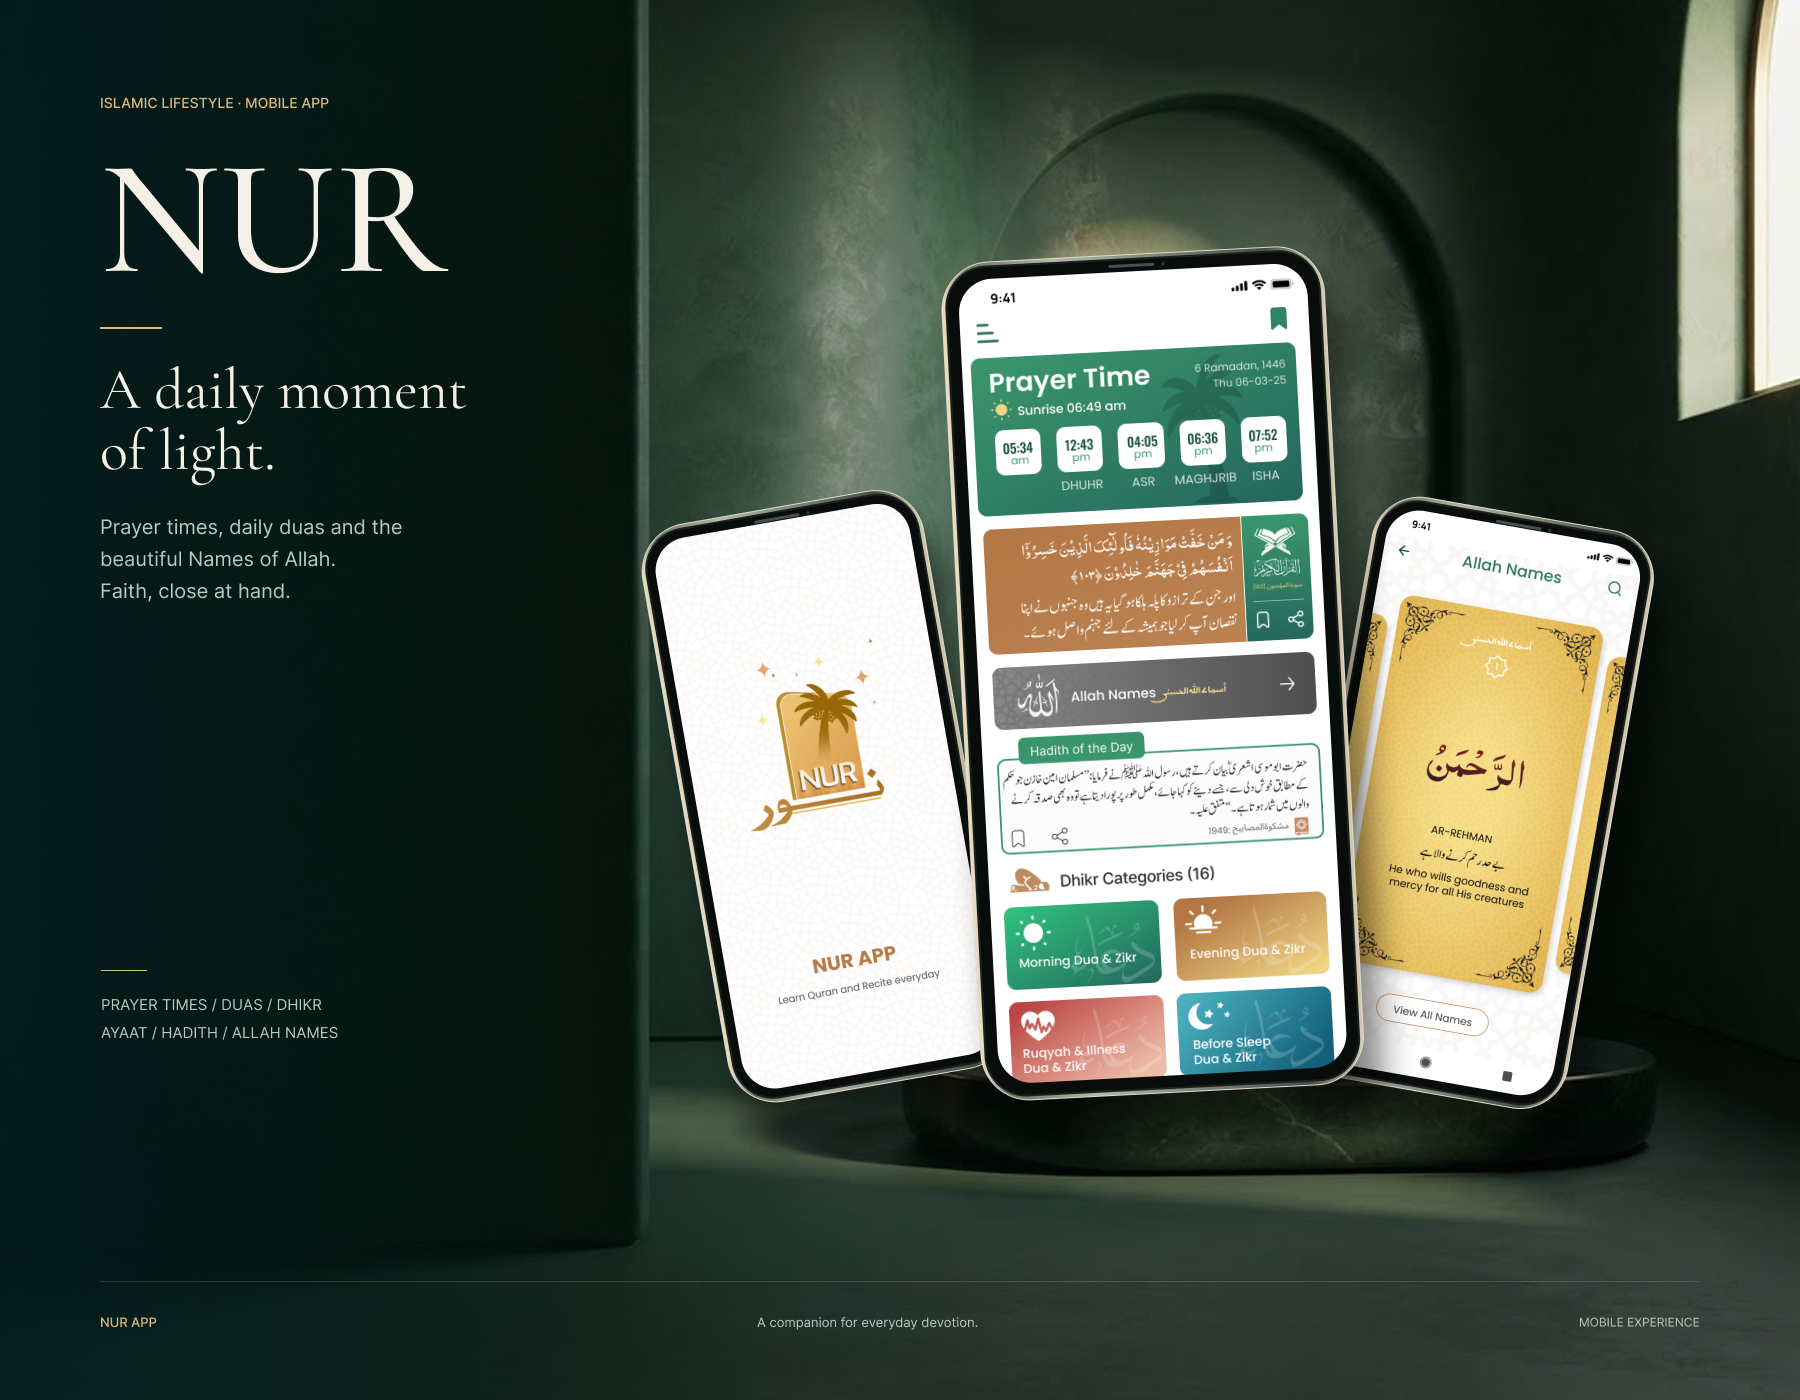
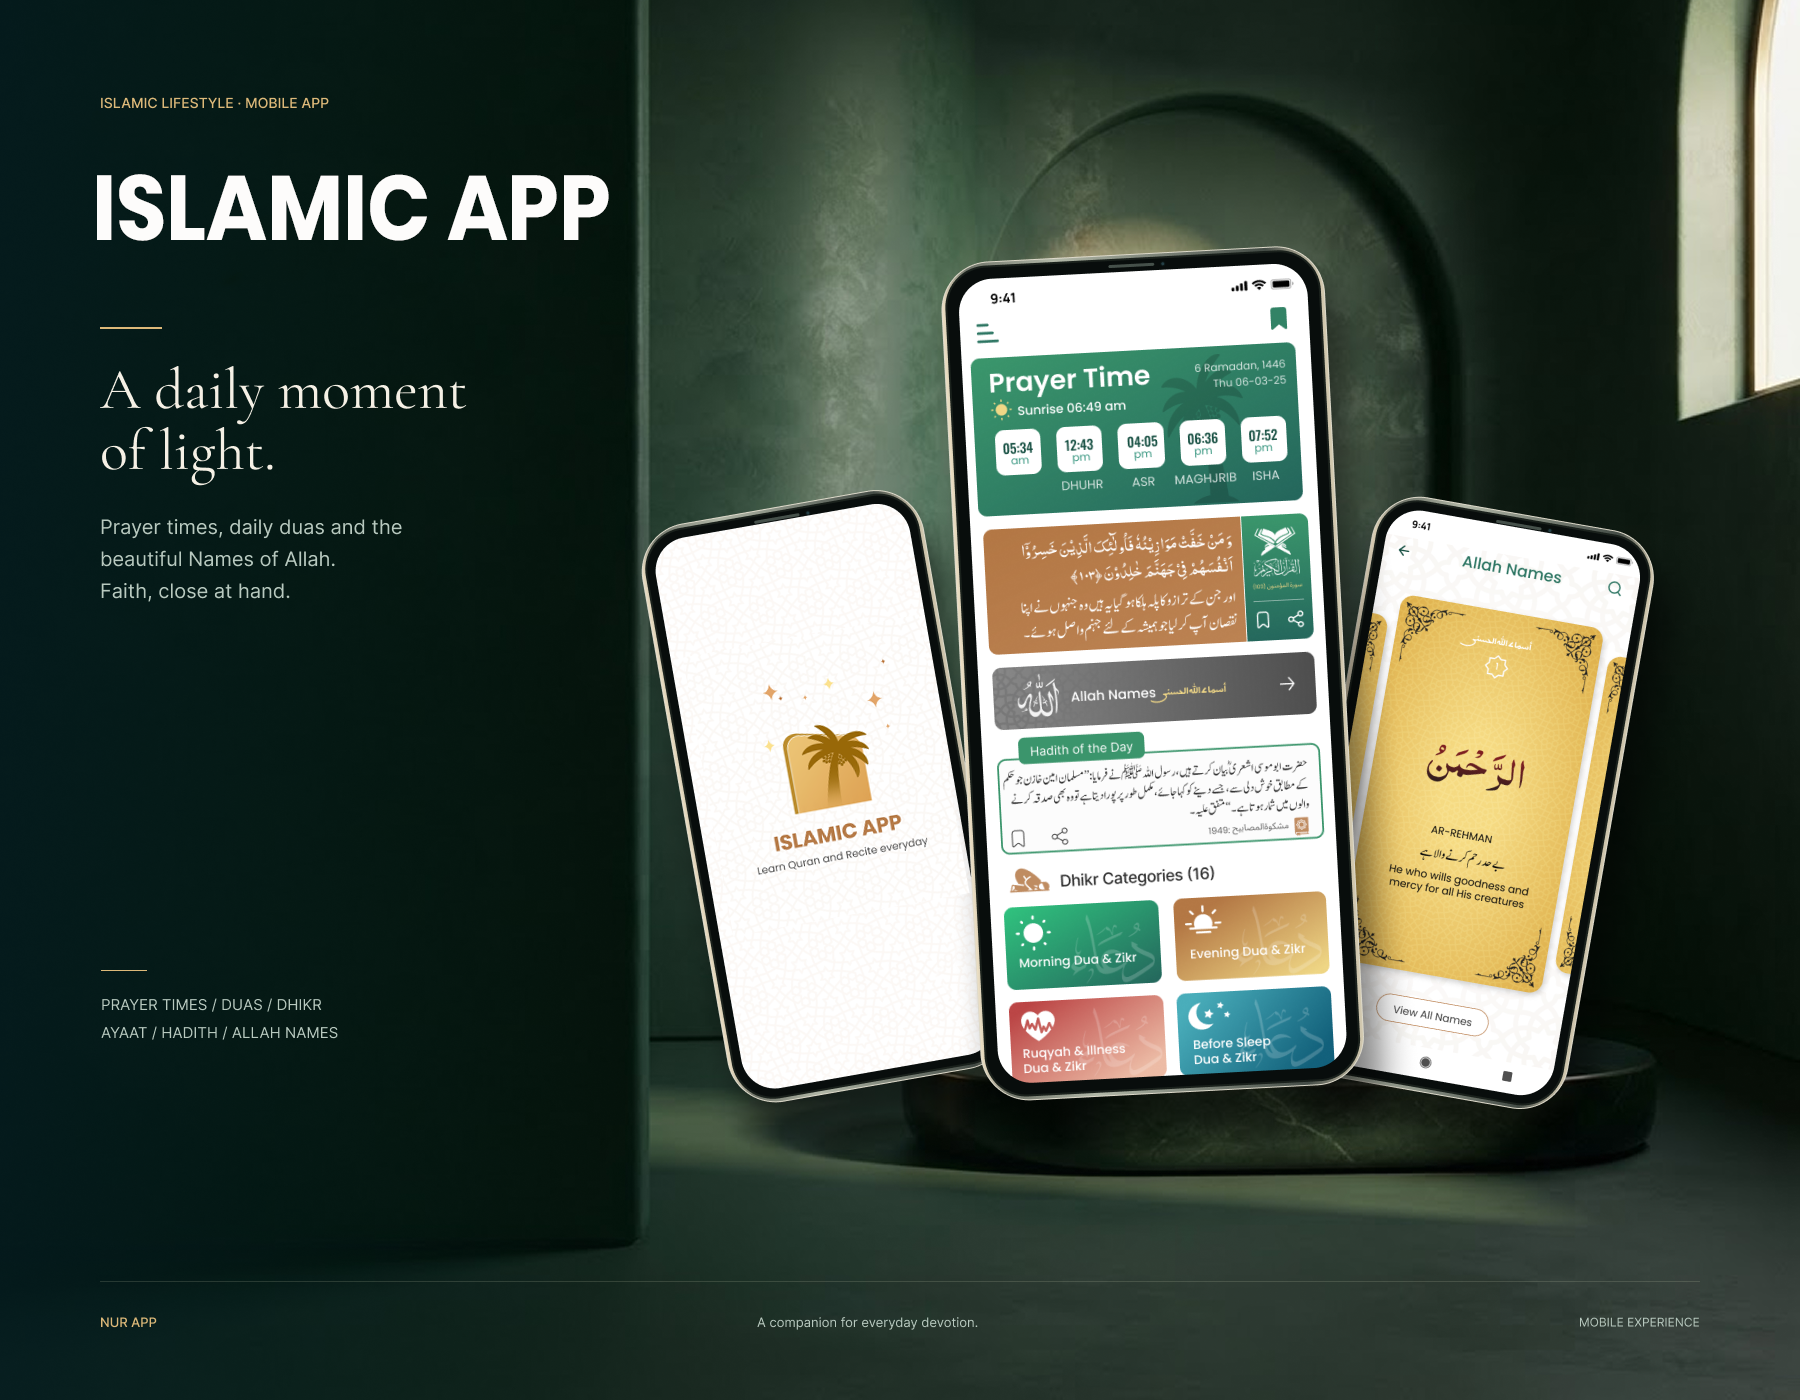
UI update
UI update

Changed region(s): [[0.0311, 0.1229, 0.3422, 0.215], [0.4044, 0.4914, 0.4978, 0.6143], [0.4356, 0.6757, 0.4978, 0.7064]]

diff --git a/data/projects.js b/data/projects.js
@@ -104,8 +104,8 @@ export const projects = [
     liveLink: 'https://dineup.wonderbyte.io/v2/'
   },
   {
-    slug: 'nur-islamic-life-app',
-    title: 'NUR: Islamic Life App',
+    slug: 'islamic-life-app',
+    title: 'Islamic Life App',
     subtitle: 'UI/UX Design for a Calm Daily Prayer Companion on iPhone',
     info: 'Designed the complete UI/UX in Figma for a mobile app that brings prayer times, an offline Qur\'an, daily adhkar, and private prayer circles into one calm, distraction-free experience.',
     description: [
@@ -124,15 +124,14 @@ export const projects = [
     skills: ['UI/UX Design', 'Figma', 'Wireframing', 'Mobile App Design', 'Design Systems', 'Prototyping', 'User Flows', 'Visual Design'],
     mainImage: '/assets/Images/project/nur-app/cover.png',
     images: [
-      '/assets/Images/project/nur-app/img2.webp',
-      '/assets/Images/project/nur-app/img1.png',
+      '/assets/Images/project/nur-app/img3.jpg',
       '/assets/Images/project/nur-app/img2.png',
+      '/assets/Images/project/nur-app/img1.png',
 
 
     ],
     status: 'Available for Purchase',
     forSale: true,
-    liveLink: 'https://nur.prismcodelabs.com/'
   },
   {
     slug: 'nitrox-gaming-community',
